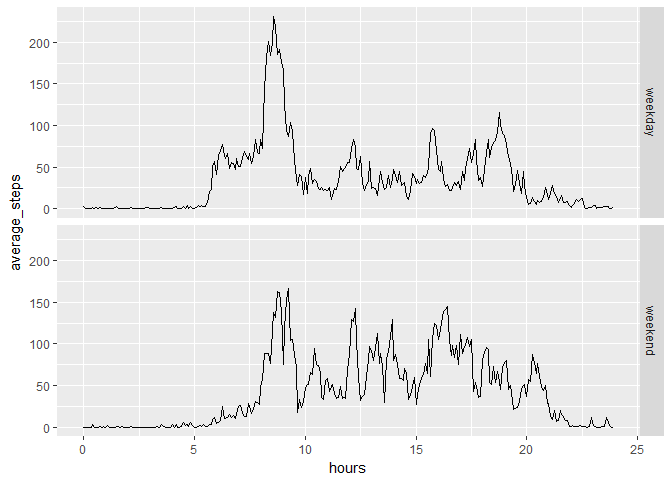
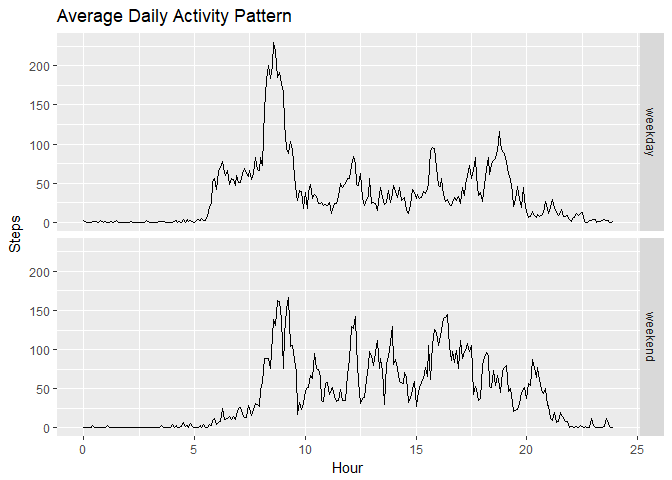
finished

diff --git a/PA1_template.html b/PA1_template.html
@@ -208,7 +208,8 @@ data$interval[i]</code></pre>
 </div>
 <div id="imputing-missing-values" class="section level2">
 <h2>Imputing missing values</h2>
-<p>Just use the mean value for the given interval.</p>
+<p>Out of 17568 observations, 2304 are missing the number of steps, as shown below. To impute these missing values, we will use the mean across all days for the given five minute interval. That is, if an observation between, say, 5:45 AM and 5:40 AM is missing the number of steps, we will look at all days where the number of steps is recorded for that five minute interval, take the mean of the number of steps in that interval, and use that value for all days where the number of steps is missing for that interval.</p>
+<p>Below, we recreate the histogram from earlier, but this time with our imputed data. We see that the histogram looks somewhat more concentrated near the mean. This makes sense since we’ve added extra data that is close to average in some sense. Below the histogram, we see the mean and median again. The mean is unchanged, and the median now equals the mean.</p>
 <pre class="r"><code>sum(!complete.cases(data))</code></pre>
 <pre><code>## [1] 2304</code></pre>
 <pre class="r"><code>imputed_data &lt;- data %&gt;%
@@ -230,10 +231,6 @@ data$interval[i]</code></pre>
 ##  9 0.     2012-10-01       40 0.667 
 ## 10 1.47   2012-10-01       45 0.750 
 ## # ... with 17,558 more rows</code></pre>
-<pre class="r"><code>mean(imputed_data$steps)</code></pre>
-<pre><code>## [1] 37.3826</code></pre>
-<pre class="r"><code>mean(data$steps, na.rm = T)</code></pre>
-<pre><code>## [1] 37.3826</code></pre>
 <pre class="r"><code>data_by_date &lt;- imputed_data %&gt;%
     group_by(date) %&gt;%
     summarize(total_steps = sum(steps))
@@ -249,6 +246,8 @@ data_by_date %&gt;%
 </div>
 <div id="are-there-differences-in-activity-patterns-between-weekdays-and-weekends" class="section level2">
 <h2>Are there differences in activity patterns between weekdays and weekends?</h2>
+<p>Finally, we will explore potential differences in daily activity patterns between weekdays and weekends. We create a new factor variable <code>weekend</code> with two levels <code>weekend</code> and <code>weekday</code>, corresponding to whether a given observation was taken on a weekday or during the weekend.</p>
+<p>The line graph below shows the daily activity pattern, defined as above, but with separate facets for weekday data and weekend data. Compared to the weekdays, during the weekends we see a later start to activity, as well as a later end. We also see more consistent variation and a higher number of steps throughout the day on weekends.</p>
 <pre class="r"><code>imputed_data %&lt;&gt;%
     mutate(weekend = factor(ifelse(weekdays(date) %in% c(&quot;Saturday&quot;, &quot;Sunday&quot;), 
                                    &quot;weekend&quot;, &quot;weekday&quot;))) %&gt;%
@@ -272,8 +271,11 @@ data_by_date %&gt;%
     summarize(average_steps = mean(steps)) %&gt;%
     ggplot(aes(x = hours, y = average_steps)) +
     geom_line() + 
-    facet_grid(weekend ~ .)</code></pre>
[1 lines of base64/hex data omitted]
+    facet_grid(weekend ~ .) +
+    ggtitle(&quot;Average Daily Activity Pattern&quot;) +
+    xlab(&quot;Hour&quot;) +
+    ylab(&quot;Steps&quot;)</code></pre>
[1 lines of base64/hex data omitted]
 </div>
 
 

diff --git a/PA1_template.md b/PA1_template.md
@@ -151,7 +151,10 @@ data$interval[i]
 
 ## Imputing missing values
 
-Just use the mean value for the given interval.
+Out of 17568 observations, 2304 are missing the number of steps, as shown below. To impute these missing values, we will use the mean across all days for the given five minute interval. That is, if an observation between, say, 5:45 AM and 5:40 AM is missing the number of steps, we will look at all days where the number of steps is recorded for that five minute interval, take the mean of the number of steps in that interval, and use that value for all days where the number of steps is missing for that interval. 
+
+Below, we recreate the histogram from earlier, but this time with our imputed data. We see that the histogram looks somewhat more concentrated near the mean. This makes sense since we've added extra data that is close to average in some sense. Below the histogram, we see the mean and median again. The mean is unchanged, and the median now equals the mean.
+
 
 
 ```r
@@ -188,22 +191,6 @@ imputed_data <- data %>%
 ```
 
 ```r
-mean(imputed_data$steps)
-```
-
-```
-## [1] 37.3826
-```
-
-```r
-mean(data$steps, na.rm = T)
-```
-
-```
-## [1] 37.3826
-```
-
-```r
 data_by_date <- imputed_data %>%
     group_by(date) %>%
     summarize(total_steps = sum(steps))
@@ -232,8 +219,12 @@ median(data_by_date$total_steps)
 ```
 
 
-
 ## Are there differences in activity patterns between weekdays and weekends?
+
+Finally, we will explore potential differences in daily activity patterns between weekdays and weekends. We create a new factor variable `weekend` with two levels `weekend` and `weekday`, corresponding to whether a given observation was taken on a weekday or during the weekend. 
+
+The line graph below shows the daily activity pattern, defined as above, but with separate facets for weekday data and weekend data. Compared to the weekdays, during the weekends we see a later start to activity, as well as a later end. We also see more consistent variation and a higher number of steps throughout the day on weekends. 
+
 
 ```r
 imputed_data %<>%
@@ -265,7 +256,10 @@ imputed_data %>%
     summarize(average_steps = mean(steps)) %>%
     ggplot(aes(x = hours, y = average_steps)) +
     geom_line() + 
-    facet_grid(weekend ~ .)
+    facet_grid(weekend ~ .) +
+    ggtitle("Average Daily Activity Pattern") +
+    xlab("Hour") +
+    ylab("Steps")
 ```
 
 ![](PA1_template_files/figure-html/unnamed-chunk-7-1.png)<!-- -->
